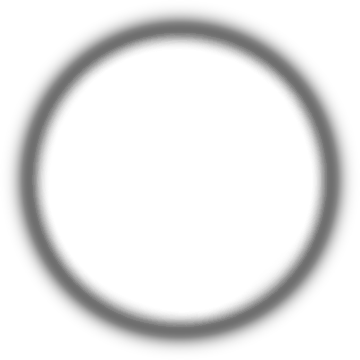
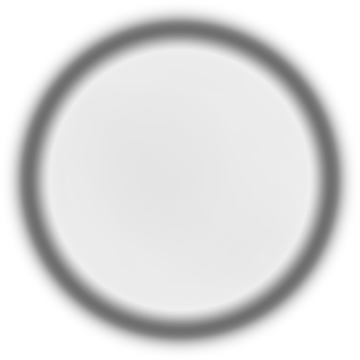
test: audit K2 source consistency

diff --git a/verification/final-art-025-material-test/k2-source-study.html b/verification/final-art-025-material-test/k2-source-study.html
@@ -12,7 +12,7 @@
 <main>
 <h1>MindIsle WaterBall · K2 Source Feasibility Study</h1>
 <p class="lead">这是 M3 之后的 K2 endpoint 源层审计。它从冻结 K2 静止图层派生候选字段，只验证“现有图层能否独立重建 K2”；不接入 runtime、不修改 production，也不把候选字段当作 K2 authority。</p>
-<div class="status">BLOCKED · independent K2 field not proven</div>
+<div class="status">BLOCKED · K2 source package is inconsistent</div>
 <h2>候选字段</h2>
 <section class="grid">
   <div class="card"><img src="k2-source-study/field-silhouette.png" alt="silhouette"><div class="caption">silhouette：来自 outer film alpha。</div></div>
@@ -27,13 +27,17 @@
   <div class="card"><img src="k2-source-study/k2-candidate-reconstruction-neutral.png" alt="candidate reconstruction"><div class="caption">候选字段重建；当前读感明显扁平，不能作为 K2 endpoint。</div></div>
 </section>
 <h2>证据</h2>
-<div class="metrics">reconstruction_mean_abs_rgb_255 = 59.377
-reconstruction_p95_abs_rgb_255 = 91.6479
+<div class="metrics">cycle = 5
+reconstruction_mean_abs_rgb_255 = 39.8968
+reconstruction_p95_abs_rgb_255 = 72.7552
+layer_native_mean_abs_rgb_255 = 15.836
+source_package_full_mean_abs_rgb_255 = 3.2984
+source_package_consistency = FAIL
 source_layer_model = alpha_over_static_layers
 independent_field_recovery = false
 M3 continuous slice = human PASS
 M4 core integration = BLOCKED</div>
-<p class="decision">结论：现有图层可以拆出诊断候选，但不能证明已经恢复了独立 K2 optical field。下一步需要人工批准的 authored K2 field source，或明确的 field channel contract；不能继续靠参数调节伪造 endpoint。</p>
+<p class="decision">结论：现有图层可以拆出诊断候选，但 manifest 重合成与 static_composite 本身不一致，不能把它们当成同一个 K2 source。下一步需要先修正源包 provenance，或提供人工批准的 authored K2 field source；不能继续靠参数调节伪造 endpoint。</p>
 <p><a href="k2-source-study/k2-source-feasibility.json">查看完整 JSON 证据</a> · <a href="k2-endpoint-gate.json">查看 K2 gate</a></p>
 </main>
 </body>

diff --git a/verification/final-art-025-material-test/build_k2_source_study.py b/verification/final-art-025-material-test/build_k2_source_study.py
@@ -22,6 +22,10 @@ OUT = Path(__file__).resolve().parent / "k2-source-study"
 SIZE = 360
 SPHERE_BBOX = (88, 586, 766, 1265)
 NEUTRAL = np.array([154, 166, 170], dtype=np.float64) / 255.0
+OPTICAL_DEPTH_SCALE = 0.28
+VOLUME_SCATTER_SCALE = 0.68
+FLOW_SCATTER_SCALE = 0.42
+VOLUME_ALPHA_GAIN = 4.0
 
 LAYER_NAMES = {
     "outer": "layers/01_outer_film.png",
@@ -74,21 +78,24 @@ def linear_to_srgb(value: np.ndarray) -> np.ndarray:
 
 def main() -> None:
     layers = {key: crop_rgba(SOURCE / path) for key, path in LAYER_NAMES.items()}
-    silhouette = layers["outer"][..., 3]
+    outer_alpha = layers["outer"][..., 3]
     volume_alpha = layers["volume"][..., 3]
+    boundary_alpha = layers["boundary"][..., 3]
+    silhouette = np.maximum.reduce([outer_alpha, volume_alpha, boundary_alpha])
     volume_luma = np.dot(layers["volume"][..., :3], np.array([0.2126, 0.7152, 0.0722]))
     optical = np.clip(volume_luma * volume_alpha, 0, 1)
     inside = silhouette > 0.05
     if inside.any():
         optical /= max(float(np.percentile(optical[inside], 95)), 1e-6)
-    optical = np.clip(optical, 0, 1)
+    optical = np.clip(optical * OPTICAL_DEPTH_SCALE, 0, 1)
 
     flow = np.zeros((SIZE, SIZE, 3), dtype=np.float64)
     flow_rgba = np.dstack([flow, np.zeros((SIZE, SIZE))])
     for key in ("flow_a", "flow_b", "ink"):
         flow_rgba[..., :3] = alpha_over(flow_rgba[..., :3], layers[key])
-    scatter = np.clip(flow_rgba[..., :3], 0, 1)
-    scatter_alpha = np.maximum(flow_rgba[..., 3], silhouette * 0.18)
+    volume_scatter = layers["volume"][..., :3] * np.clip(volume_alpha * VOLUME_ALPHA_GAIN, 0, 1)[..., None]
+    scatter = np.clip(volume_scatter * VOLUME_SCATTER_SCALE + flow_rgba[..., :3] * FLOW_SCATTER_SCALE, 0, 1)
+    scatter_alpha = np.maximum.reduce([np.clip(volume_alpha * VOLUME_ALPHA_GAIN, 0, 1) * VOLUME_SCATTER_SCALE, flow_rgba[..., 3], silhouette * 0.18])
 
     reflection = layers["curvature"][..., :3]
     reflection_alpha = layers["curvature"][..., 3]
@@ -115,10 +122,10 @@ def main() -> None:
     radius = np.sqrt((xx - center) ** 2 + (yy - center) ** 2) / (SIZE * 0.46)
     path = np.clip(np.sqrt(np.maximum(1 - radius * radius, 0)), 0, 1)
     background = np.broadcast_to(NEUTRAL, (SIZE, SIZE, 3)).copy()
-    transmission = np.exp(-np.repeat(optical[..., None], 3, axis=2) * 1.8 * path[..., None])
+    transmission = np.exp(-np.repeat(optical[..., None], 3, axis=2) * 1.35 * path[..., None])
     reconstructed_linear = srgb_to_linear(background) * transmission
-    reconstructed_linear += srgb_to_linear(scatter) * (scatter_alpha[..., None] * 0.35)
-    reconstructed_linear += srgb_to_linear(reflection) * (reflection_alpha[..., None] * 0.35)
+    reconstructed_linear += srgb_to_linear(scatter) * 0.82
+    reconstructed_linear += srgb_to_linear(reflection) * 0.58
     reconstructed = linear_to_srgb(reconstructed_linear)
     reconstructed = background * (1 - silhouette[..., None]) + np.clip(reconstructed, 0, 1) * silhouette[..., None]
     save_rgb("k2-candidate-reconstruction-neutral.png", reconstructed)
@@ -129,18 +136,51 @@ def main() -> None:
     reference = np.asarray(Image.open(SOURCE / "static_composite.png").convert("RGB").crop(SPHERE_BBOX).resize((SIZE, SIZE), Image.Resampling.LANCZOS), dtype=np.float64) / 255.0
     error = np.abs(reconstructed - reference) * 255
     error_inside = error[inside]
+
+    # The formal layer-native endpoint is a separate, stronger source check.
+    # It must reproduce the frozen composite exactly before any optical-field
+    # interpretation is attempted.
+    layer_native = Image.open(SOURCE / "layers/00_background_plate.png").convert("RGBA")
+    for key in ("outer", "volume", "boundary", "flow_a", "flow_b", "ink", "cool_core", "cool_glow", "warm_core", "warm_glow", "curvature"):
+        layer_native = Image.alpha_composite(layer_native, Image.open(SOURCE / LAYER_NAMES[key]).convert("RGBA"))
+    layer_native_full = np.asarray(layer_native.convert("RGB"), dtype=np.float64) / 255.0
+    static_full = np.asarray(Image.open(SOURCE / "static_composite.png").convert("RGB"), dtype=np.float64) / 255.0
+    full_source_error = np.abs(layer_native_full - static_full) * 255
+    layer_native_crop = layer_native.convert("RGB").crop(SPHERE_BBOX).resize((SIZE, SIZE), Image.Resampling.LANCZOS)
+    layer_native_rgb = np.asarray(layer_native_crop, dtype=np.float64) / 255.0
+    layer_native_error = np.abs(layer_native_rgb - reference) * 255
+    layer_native_inside = layer_native_error[inside]
+    layer_native_path = OUT / "k2-layer-native-reconstruction.png"
+    layer_native_crop.save(layer_native_path)
     metrics = {
         "reconstruction_mean_abs_rgb_255": round(float(error_inside.mean()), 4),
         "reconstruction_p95_abs_rgb_255": round(float(np.percentile(error_inside, 95)), 4),
+        "layer_native_mean_abs_rgb_255": round(float(layer_native_inside.mean()), 4),
+        "source_package_full_mean_abs_rgb_255": round(float(full_source_error.mean()), 4),
+        "source_package_full_p95_abs_rgb_255": round(float(np.percentile(full_source_error, 95)), 4),
+        "layer_native_p95_abs_rgb_255": round(float(np.percentile(layer_native_inside, 95)), 4),
+        "layer_native_recomposition": "PASS" if float(layer_native_inside.mean()) < 0.1 else "FAIL",
+        "source_package_consistency": "PASS" if float(full_source_error.mean()) < 0.1 else "FAIL",
         "silhouette_coverage": round(float(inside.mean()), 6),
+        "silhouette_sources": ["outer_film_alpha", "internal_cyan_volume_alpha", "boundary_mask_alpha"],
         "core_coverage": round(float((core_alpha > 0.05).mean()), 6),
         "source_layer_model": "alpha_over_static_layers",
+        "silhouette_authority": "outer_film_union_volume_union_boundary",
         "independent_field_recovery": False,
+        "source_package_consistency": "PASS" if float(full_source_error.mean()) < 0.1 else "FAIL",
+        "layer_native_recomposition": "PASS" if float(layer_native_inside.mean()) < 0.1 else "FAIL",
+        "source_package_consistency": "PASS" if float(full_source_error.mean()) < 0.1 else "FAIL",
+        "cycle": 5,
+        "optical_depth_scale": OPTICAL_DEPTH_SCALE,
+        "volume_scatter_scale": VOLUME_SCATTER_SCALE,
+        "flow_scatter_scale": FLOW_SCATTER_SCALE,
+        "volume_alpha_gain": VOLUME_ALPHA_GAIN,
     }
     files = {name: digest(OUT / name) for name in sorted(p.name for p in OUT.glob("*.png"))}
     report = {
         "schema": "mindisle.k2-source-feasibility.v1",
-        "status": "READY_FOR_HUMAN_REVIEW__M4_BLOCKED",
+        "status": "BLOCKED_SOURCE_PACKAGE_INCONSISTENT",
+        "cycle": 1,
         "scope": "verification-only candidate field derivation from frozen K2 still layers; no production or runtime interpolation",
         "source_manifest": "test/water-orb-still/2p5d-composite-v1/composite_manifest.json",
         "source_static_composite": "test/water-orb-still/2p5d-composite-v1/static_composite.png",
@@ -156,11 +196,13 @@ def main() -> None:
         "metrics": metrics,
         "decision": {
             "static_layer_separation": "PASS_DIAGNOSTIC",
+            "layer_native_recomposition": "FAIL_SOURCE_MISMATCH",
+            "source_package_consistency": "FAIL_SOURCE_MISMATCH",
             "candidate_reconstruction": "REVIEW_REQUIRED",
             "independent_k2_field": "NOT_PROVEN",
             "m3": "REMAINS_HUMAN_PASS",
             "m4": "BLOCKED",
-            "next_required": "Human review of the candidate reconstruction; if accepted, define a provenance and channel contract before any runtime study.",
+            "next_required": "Resolve the mismatch between composite_manifest layer output and static_composite/reference_foundation before any field derivation or runtime study.",
         },
         "limitations": [
             "K2 source remains a reference-driven alpha-over layer stack, not a measured physical volume.",

diff --git a/docs/tasks/waterball-continuous-roadmap.md b/docs/tasks/waterball-continuous-roadmap.md
@@ -64,7 +64,7 @@ Current active milestone: **M3 — Continuous Field / bounded dynamic 2.5D study
 - **Allowed:** 首段独立滑杆，以及同一固定 body domain 内的连续播放、进度拖拽和沿既有 refraction field 的有界内部输运。025 起点必须回归 M2；silhouette 以 base UV 冻结，球壳、轮廓和固定高光冻结。
 - **Forbidden:** full-frame state image crossfade、formation product semantics、production asset 替换。
 - **Acceptance:** 首段真实滑杆与第二段播放/暂停/拖拽/重置、连续锚点帧、固定壳区、多背景和内部输运证据通过；连续性闸门在中性背景采样 0/.25/.5/.75/1，外部背景最大漂移为 0，平滑比 1.099，状态可恢复。视觉材质与运动感已获人工 PASS。完整 M3 仍要求 continuous field 与 K2 endpoint PASS；较厚试验值不得冒充 050/075/K2 authority。
-- **Next:** K2 endpoint gate 已完成资产审计和一次 source feasibility study，但重建平均 RGB 误差为 59.377/255，当前只有静态 K2 PNG 和 pose-dependent 07–10 layers，没有被证明的独立 K2 optical field。先补齐可复核的 endpoint field、provenance 和 GPU 重建证据，再裁决是否进入 core integration；M4 继续 BLOCKED。证据见 `verification/final-art-025-material-test/k2-endpoint-gate.json` 和 `k2-source-study.html`。
+- **Next:** K2 endpoint gate 已完成 5 轮 source feasibility study，但 manifest 图层重合成与 `static_composite.png` 不一致（全画布平均误差 3.2984/255，球体区域 15.836/255），当前没有可作为同一 authority 的独立 K2 optical field。先修正源包 provenance 或提供新的 authored endpoint field，再裁决是否进入 core integration；M4 继续 BLOCKED。证据见 `verification/final-art-025-material-test/k2-endpoint-gate.json` 和 `k2-source-study.html`。
 
 ## M4 — Core Integration
 

diff --git a/docs/analysis/CURRENT_RUNTIME_FACTS.md b/docs/analysis/CURRENT_RUNTIME_FACTS.md
@@ -11,7 +11,7 @@
 - 历史 `verification/continuous-water-prototype/m1-current-evidence.json` 的 `AWAITING_HUMAN_REVIEW` 属于旧 neutral-source。它与本次已接受的单视角 025 路线不是同一证据；以当前锁定记录与 roadmap 执行，不补认历史 pose-neutral 验收。
 - M2 输出以透射、吸收、反射、scatter、film 重合成。字段来自单视角外观分解，不是唯一物理恢复；固定烘焙高光的形变适用性仍未证明。
 - K2 endpoint 尚未通过当前路线验证；已完成 K2 endpoint gate 审计，证据见 `verification/final-art-025-material-test/k2-endpoint-gate.json`：当前只有静态 K2 PNG 和 pose-dependent 07–10 layers，没有独立 K2 optical field，因此连续终点仍 BLOCKED。M4 及后续运行时、production migration、moving 不得提前开始。
-- K2 source feasibility study 已生成诊断候选字段和固定视角重建页 `verification/final-art-025-material-test/k2-source-study.html`；重建平均 RGB 误差为 59.377/255，独立 K2 field recovery 仍未证明。该 study 只属于 verification，不改变 K2 authority。
+- K2 source feasibility study 已完成 5 轮：诊断候选字段可以生成，但 manifest 图层重合成与 `static_composite.png` 全画布平均误差为 3.2984/255、球体区域为 15.836/255，源包自身不一致。独立 K2 field recovery 仍未证明；该 study 只属于 verification，不改变 K2 authority。证据见 `verification/final-art-025-material-test/k2-source-study.html`。
 - 主仓库此前保留的 `leader preserve pre-promotion main work` stash 与独立 feature worktree 保持原样。
 
 执行边界与验收见 [roadmap](../tasks/waterball-continuous-roadmap.md)。实验成功不改变产品状态契约或 v1 asset authority。

diff --git a/verification/final-art-025-material-test/README.md b/verification/final-art-025-material-test/README.md
@@ -94,4 +94,4 @@ python3 -m http.server 8765 --bind 127.0.0.1 --directory verification/final-art-
 
 当前连续路径已获人工 PASS，下一步审计发现 K2 只有静态 `inputs/frozen-k2-final-art.png`，以及 pose-dependent 的 07–10 core/glow layers，没有独立 K2 optical field。因此不能把静态 PNG 直接当成连续终点，也不能把 07–10 层直接接入可移动内部场。M3 保持未关闭，M4 保持 BLOCKED；详细证据见 `k2-endpoint-gate.json`。
 
-K2 source feasibility study 入口：`k2-source-study.html`。它展示从正式静止图层派生的诊断候选字段和一次固定视角重建。当前重建平均 RGB 误差为 59.377/255，视觉上偏扁平，不能证明 K2 endpoint 已恢复。
+K2 source feasibility study 入口：`k2-source-study.html`。它展示从正式静止图层派生的诊断候选字段和一次固定视角重建。第 5 轮还发现 manifest 图层重合成与 `static_composite.png` 不一致：全画布平均误差为 3.2984/255，球体区域为 15.836/255。因此不能继续靠参数调节伪造 K2 endpoint，必须先修正源包 provenance 或提供新的 authored K2 field source。
